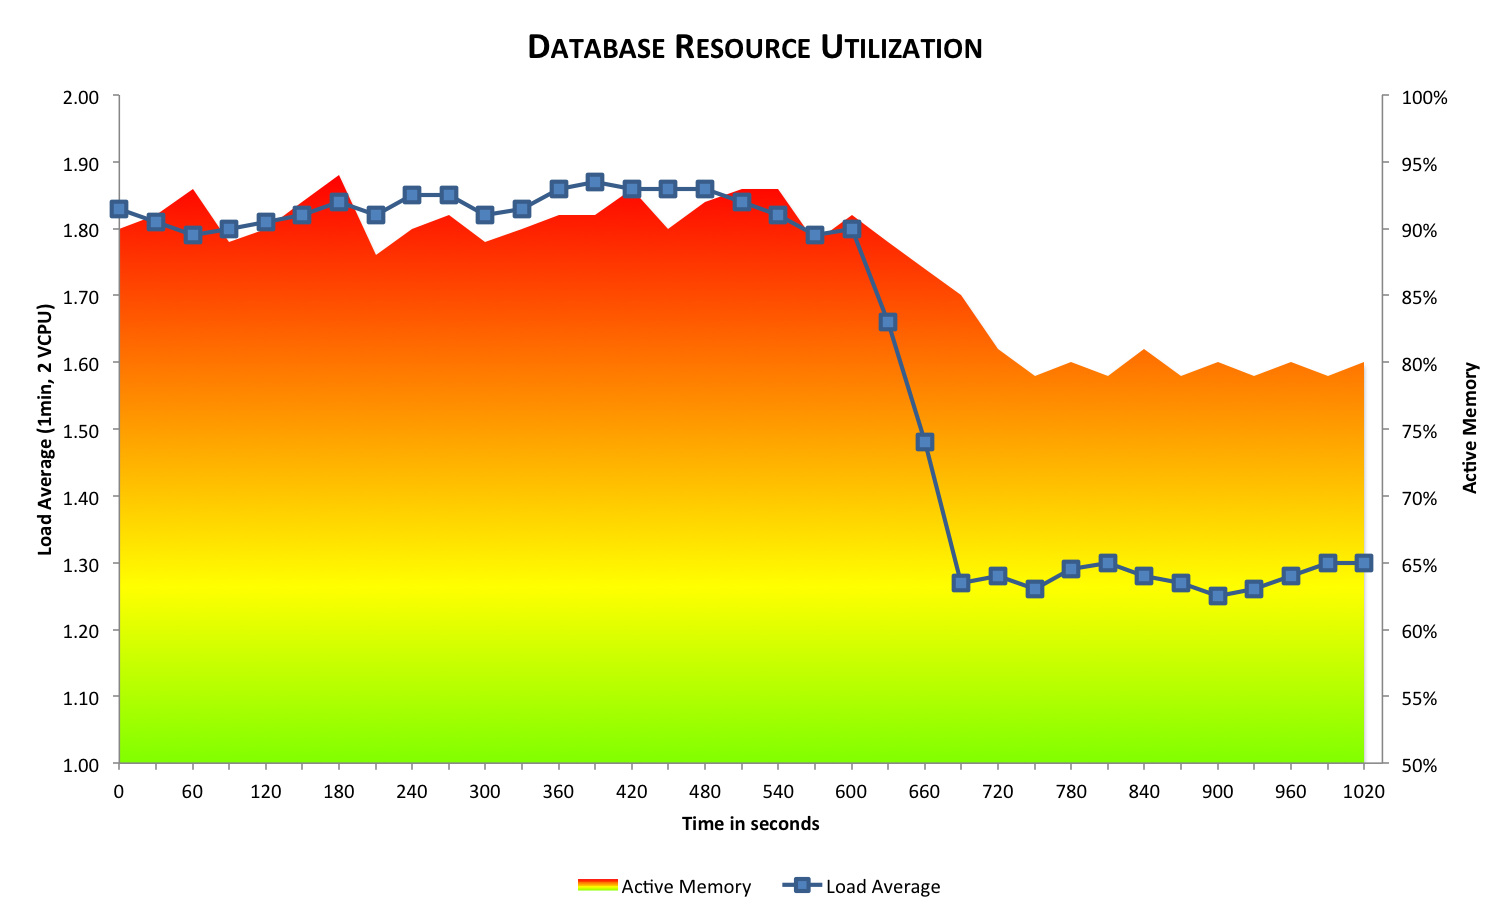
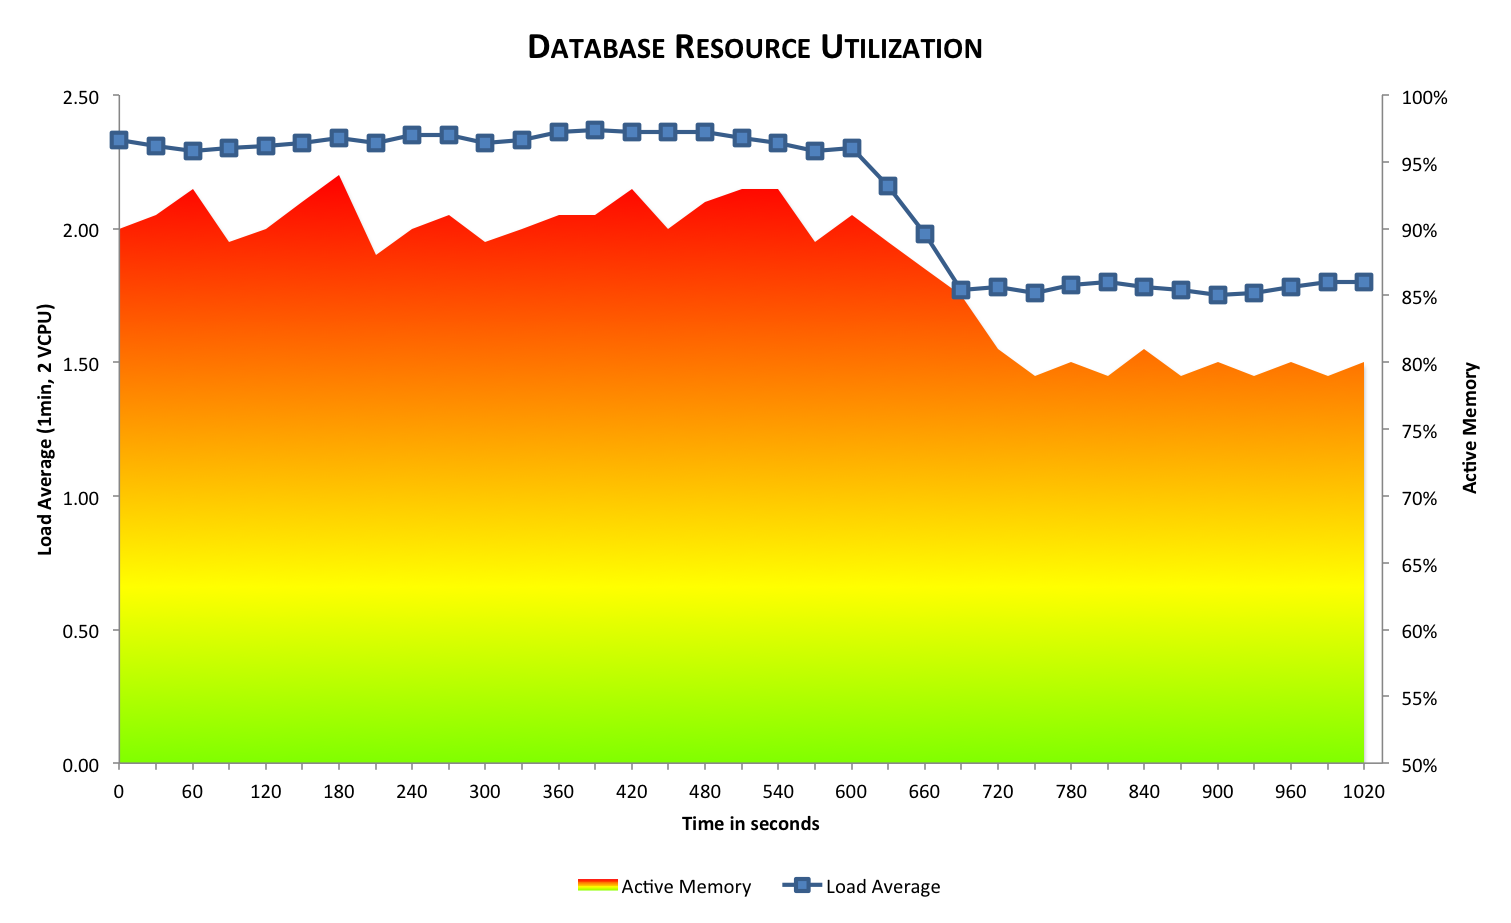
Make the database section and the chart more relevant.

diff --git a/graduation/extended-abstract.md b/graduation/extended-abstract.md
@@ -284,9 +284,18 @@ reduced redundancy but fully operational.
 With the Elasticsearch cluster operational, it can take the strain off the
 database. To achieve this, the VideofyMe API also received an update to take
 advantage of the Elasticsearch cluster. Below is a chart of the drop in system
-resources measured around the time of deployment.
+resources utilized, measured around the time of deployment.
 
-![databaseresources](architecture/infrastructure/databaseresources.png)
+![databaseresources](architecture/infrastructure/databaseresources.png "Database resource utilization around the moment of deployment.")
+
+Metric        | Description
+-------------:|:-------
+Load Average  | The number of processes (computations) ready to run, measured in an exponentially weighted average over the last minute sampled every 5 seconds.
+Active Memory | The memory actively being (re-)used. Includes all memory other than data, executable memory and caches.
+
+The database instance has 2 VCPUs (virtual central processing units). A load
+average of above 2 is therefore concerning. The drop in resource utilization can
+be seen clearly at the 10 minute mark.
 
 ## Quality of search results
 Quality of search results can not be measured in concrete values or units. The
